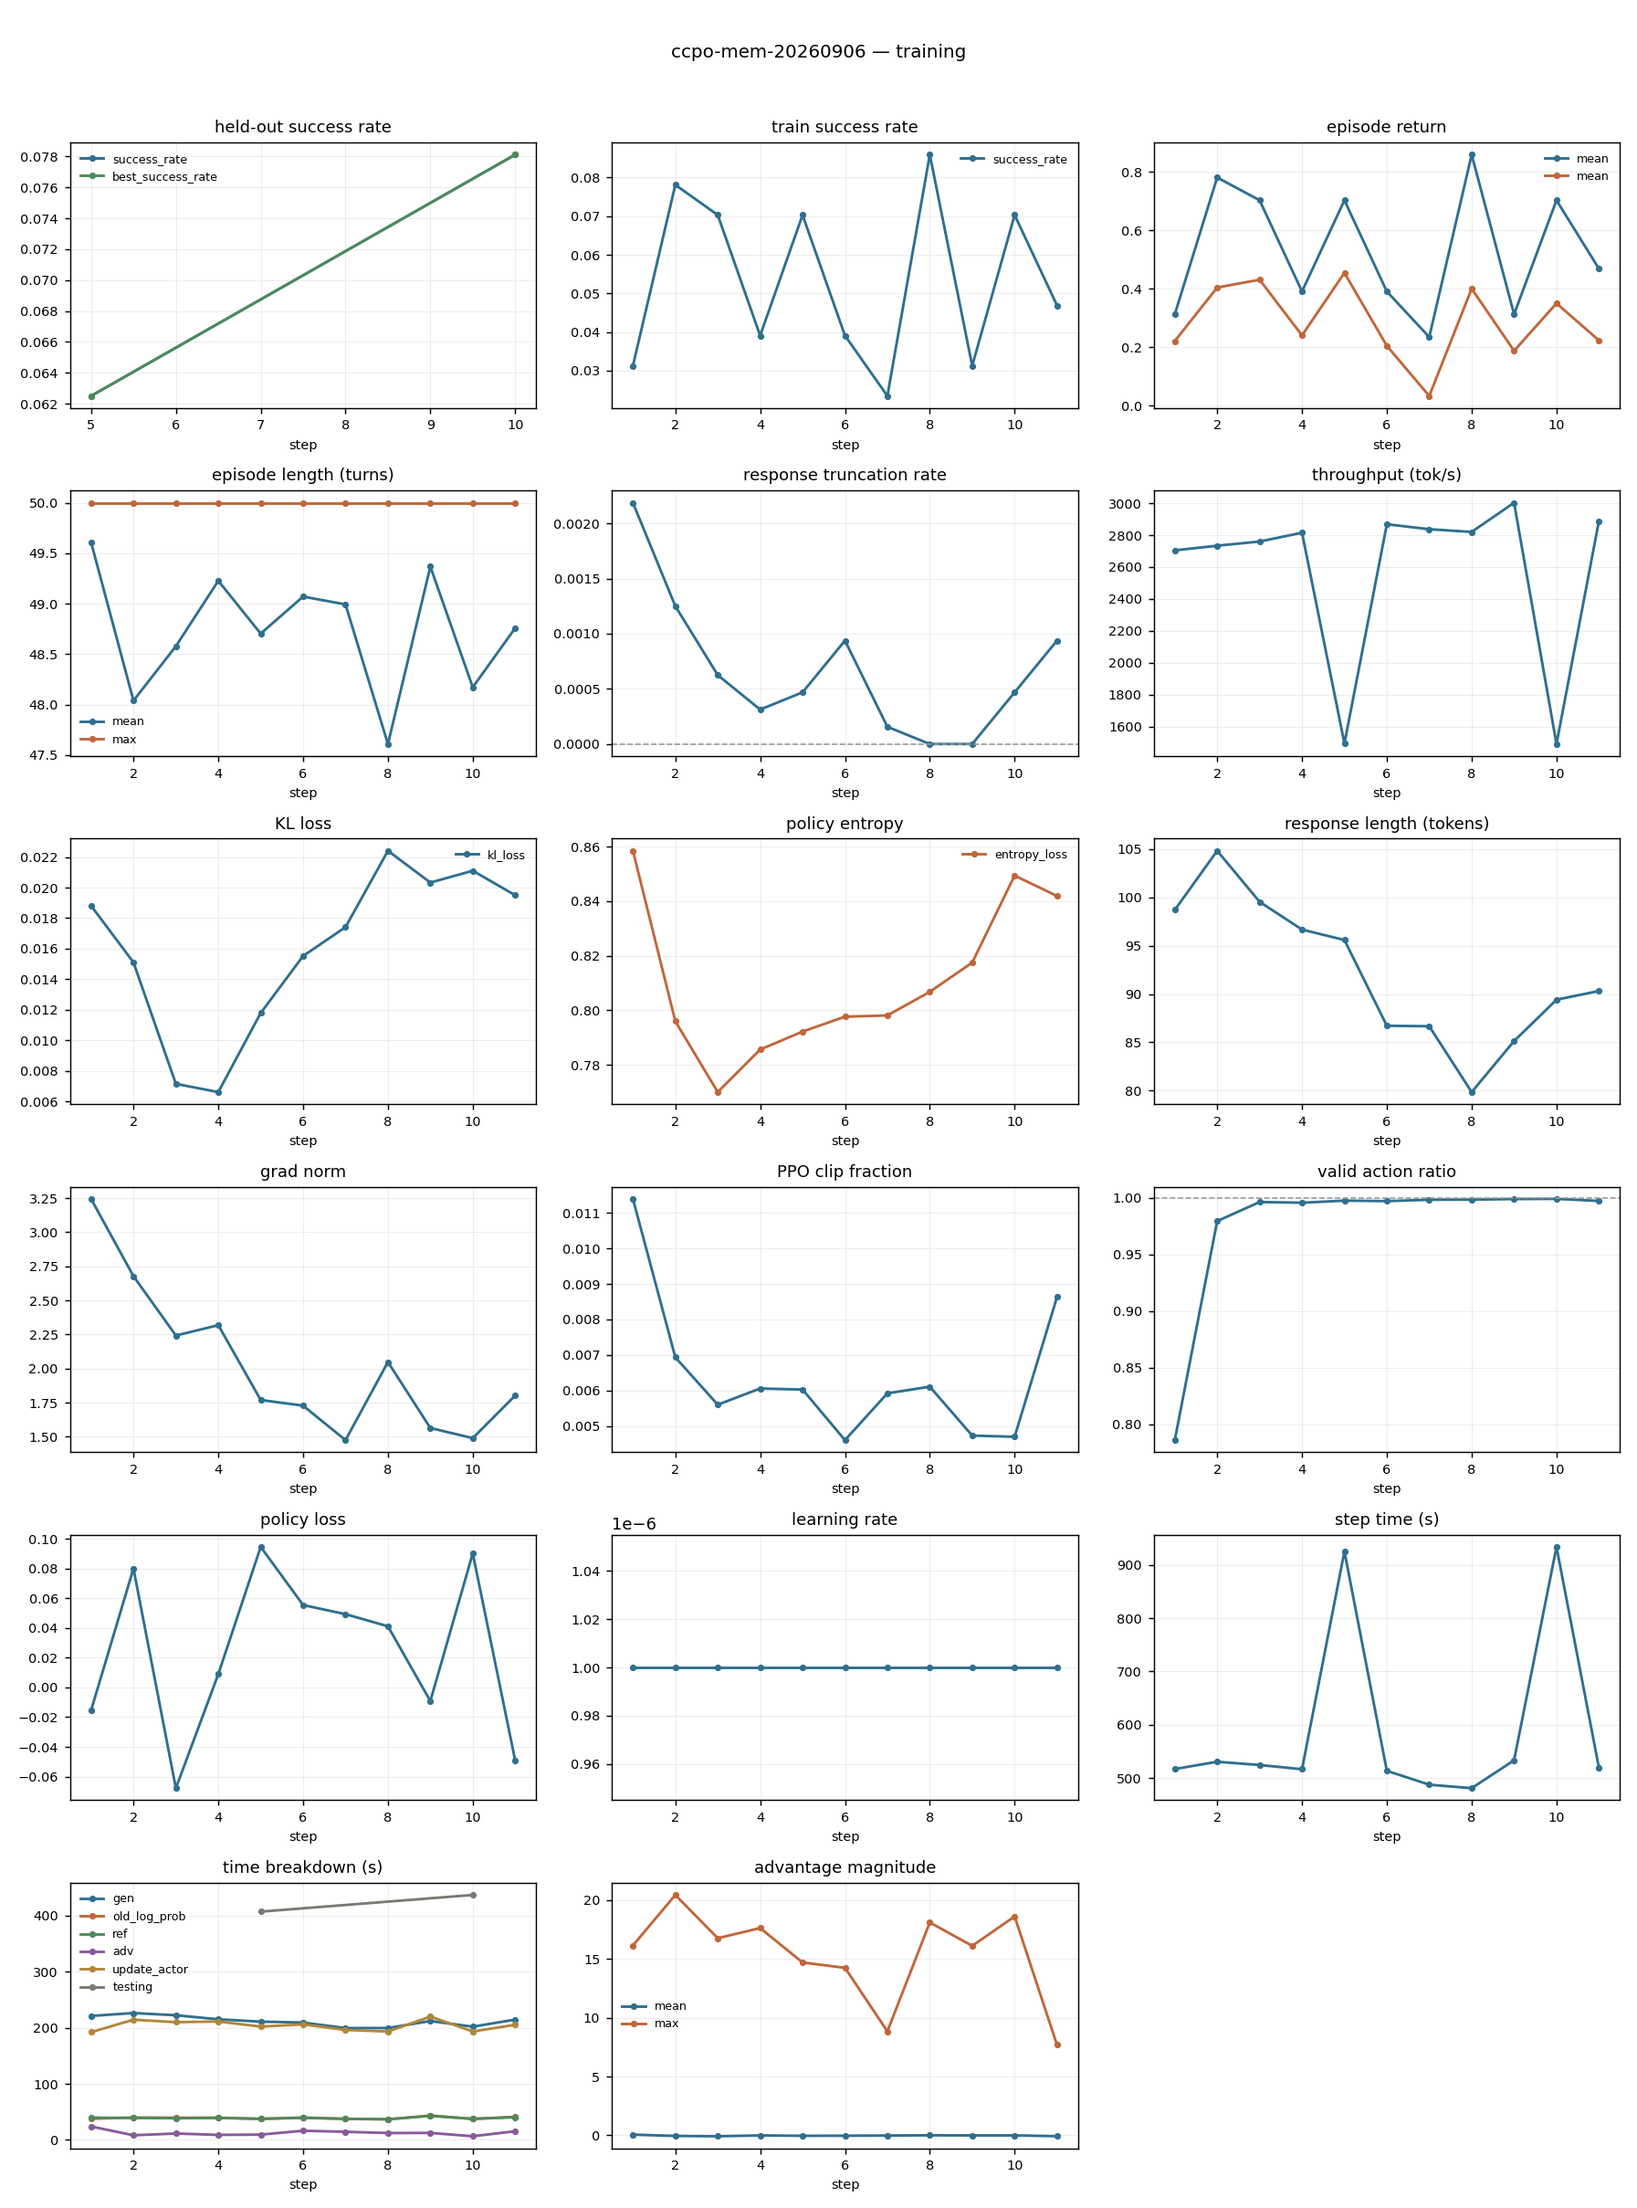
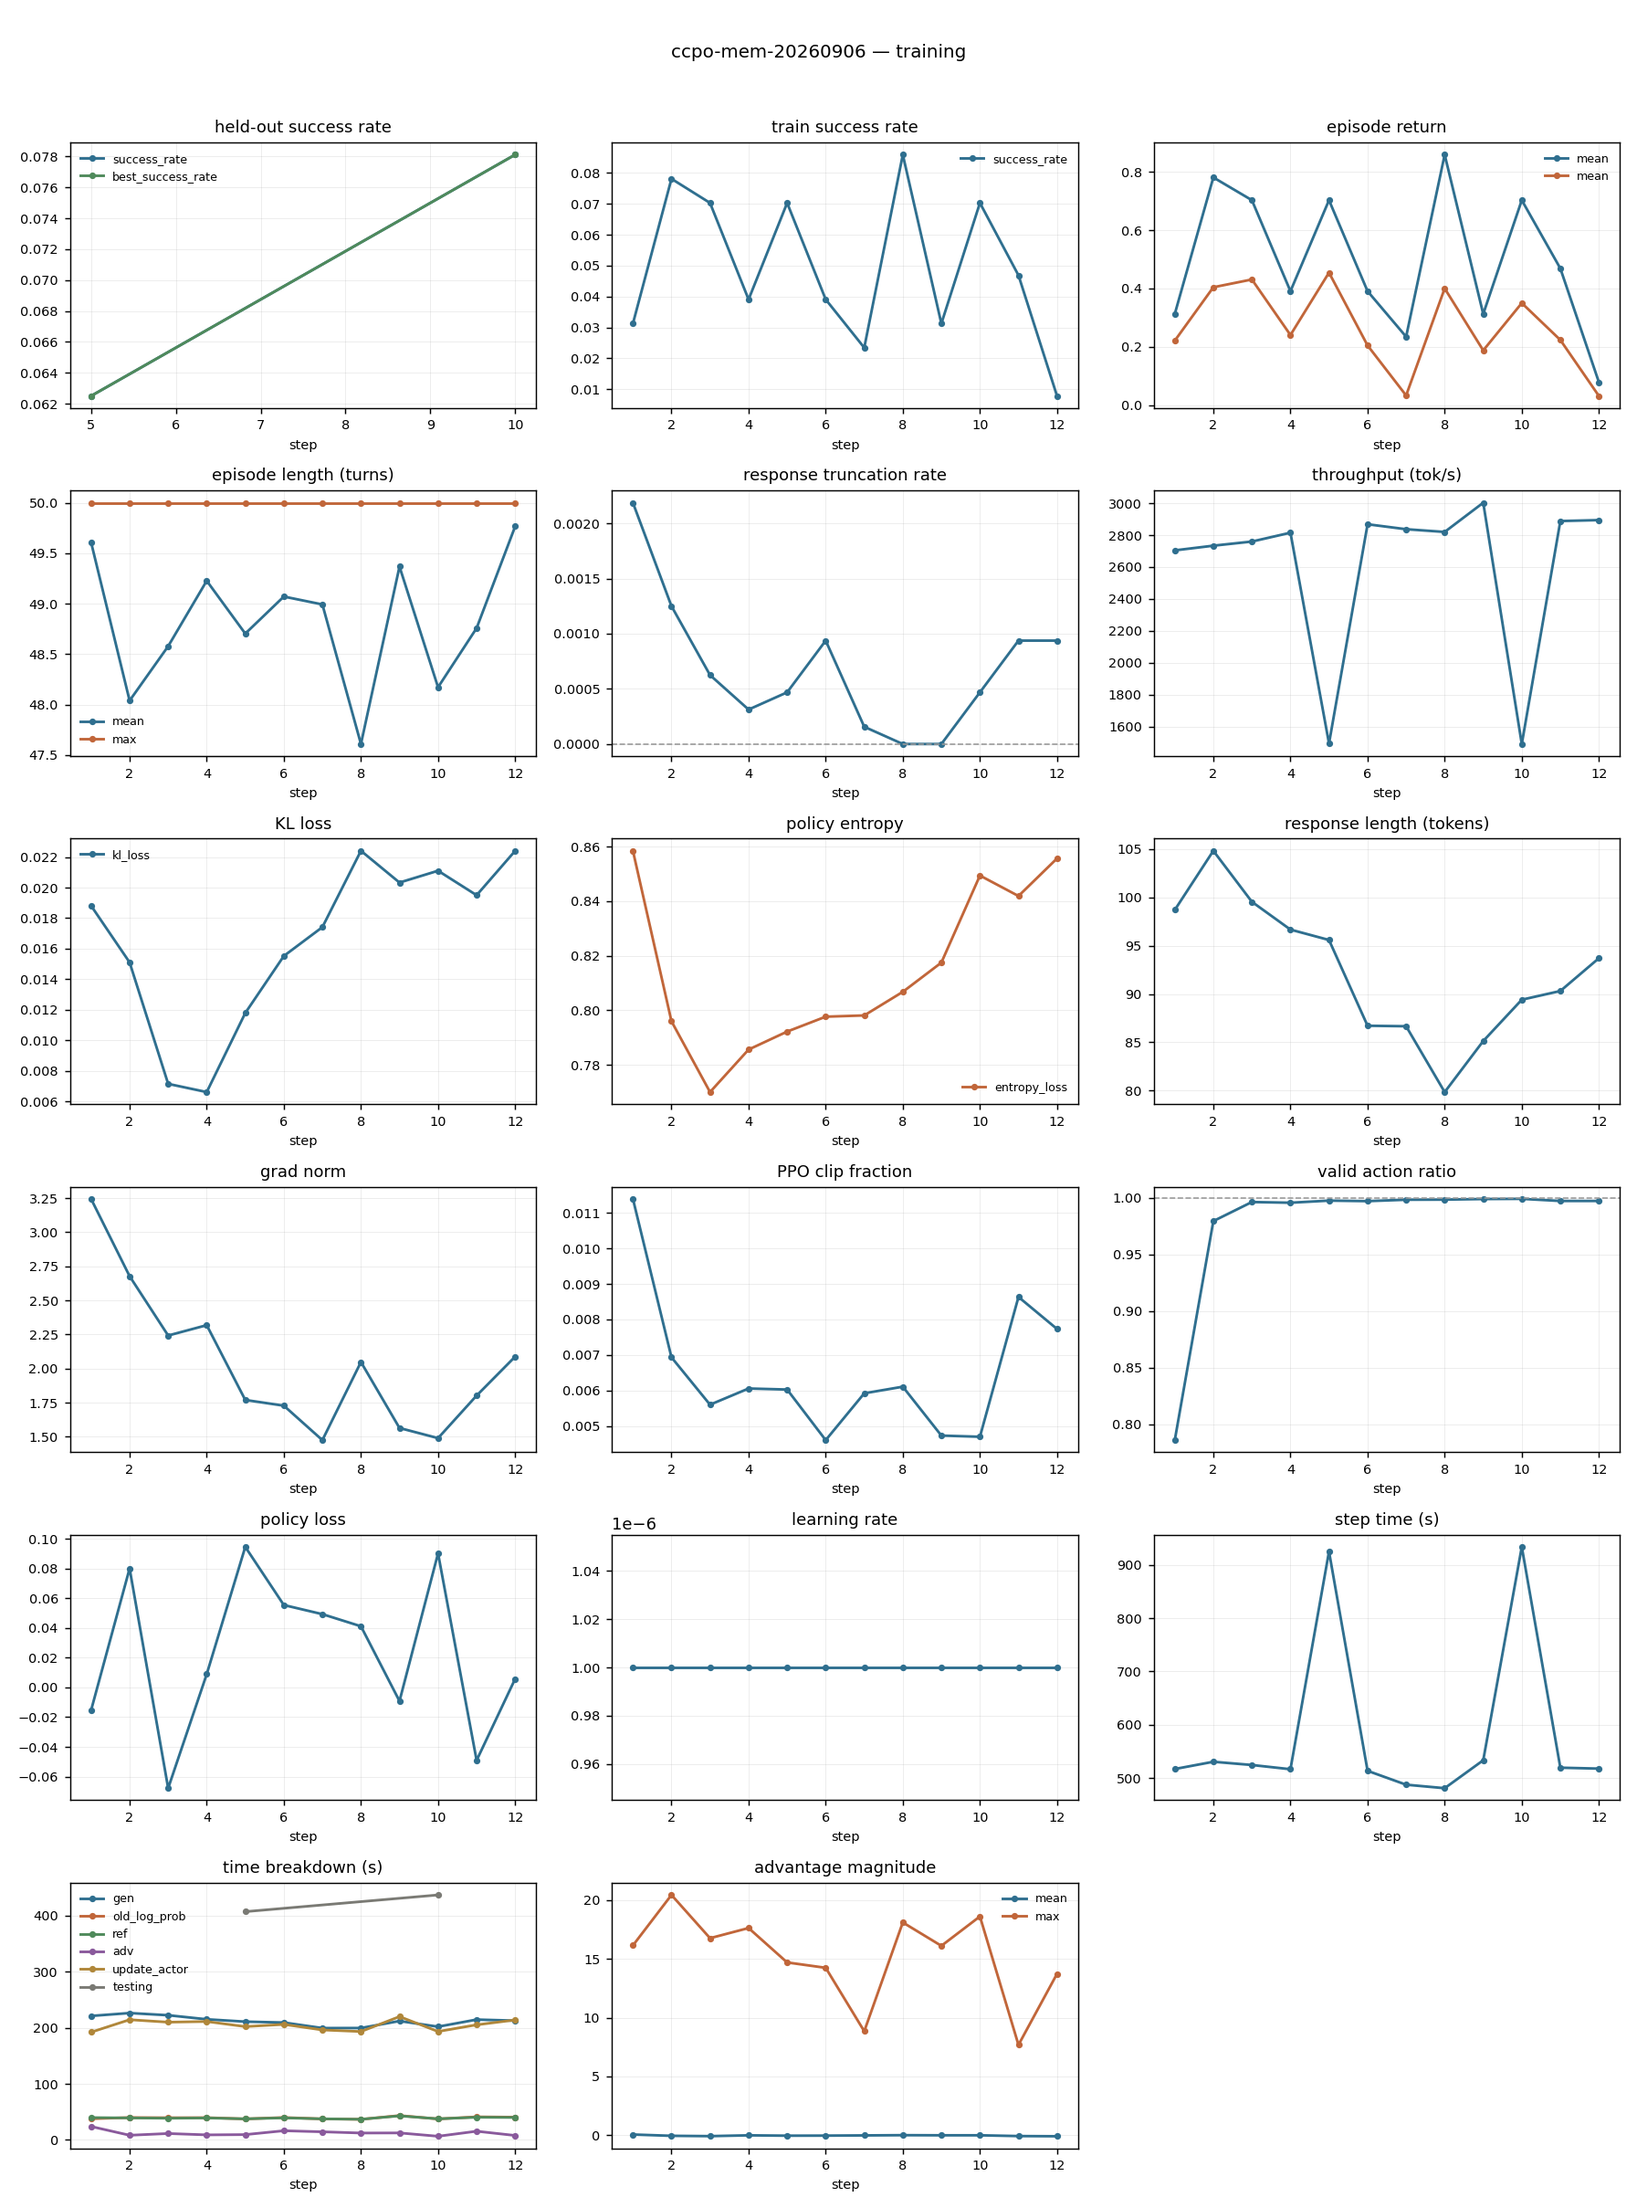
hypothesis.md: H-F sharpened -- the policy has learned exactly one task type
Per-type success shows pick_and_place carrying essentially every success (0.06-0.44)
while the four compositional types sit at ~0 after 12 steps; pick_two_obj_and_place
has never succeeded. Published GiGPO's 90.16 requires all five. So the plateau is
not uniform underperformance but a policy that learned the easy type and nothing
else -- and per-type success, not the aggregate, is the progress signal to watch.

Also records that episode/success_rate on the training draw is mostly
task-composition noise: 16 fresh tasks per step, observed sd 0.024 against a
binomial 0.019, and swings of 0.086 -> 0.008 carry almost no information. Several
earlier readings in this file leaned on it.

Health metrics rule out collapse: KL bounded 0.019-0.022, entropy stable 0.79-0.86,
grad norm 1.5-3.2, clipfrac under 0.011, valid actions 0.996-0.999.

Adds two measurement gotchas, including that the trend p-value went 0.046 -> 0.112
-> 0.312 over three consecutive steps.

Claude-Session: https://claude.ai/code/session_01TnVw4qcXikRNMjxhmmuJXY

diff --git a/experiments/hypothesis.md b/experiments/hypothesis.md
@@ -93,6 +93,39 @@ a harness stuck near the floor may simply not exercise the credit-assignment
 differences these arms exist to test. An estimator cannot show its worth on a
 policy that solves nothing.
 
+**Sharpened at step 12 — the policy has learned exactly one task type.**
+Per-type success on the training draw:
+
+| step | pick_and_place | pick_clean | pick_cool | pick_heat | pick_two_obj |
+|---|---|---|---|---|---|
+| 10 | **0.438** | 0.062 | 0.000 | 0.000 | 0.000 |
+| 11 | **0.250** | 0.062 | 0.000 | 0.000 | 0.000 |
+| 12 | **0.062** | 0.000 | 0.000 | 0.000 | 0.000 |
+
+`pick_and_place` — the simplest type, one object one destination — carries
+essentially every success. The four compositional types are at ~0 after 12 steps,
+and `pick_two_obj_and_place` has **never succeeded once**. Published GiGPO's 90.16
+requires solving all five.
+
+So the plateau is not uniform underperformance. It is a policy that has learned the
+easy type and nothing else. That is consistent with the benign reading — the
+compositional types plausibly need far more than 12 steps — but it also says the
+overall success rate is the wrong thing to watch: **per-type success is the
+progress signal**, and the first compositional type to lift is the event that
+would settle H-F.
+
+**Train success is a poor progress signal at this batch size.** Each step draws 16
+fresh tasks, so the number of `pick_and_place` tasks in the draw dominates. Observed
+sd across 12 steps is 0.024 against a binomial 0.019 at the same mean — the excess
+is task composition. Only the held-out set (fixed 128 episodes) is comparable
+across steps, and step-to-step swings in train success (0.086 -> 0.008) carry
+almost no information. Several earlier readings in this file leaned on that signal
+and should not have.
+
+**Health is fine** — no collapse to blame: KL 0.019 -> 0.022 bounded, entropy
+0.79-0.86 stable, grad norm 1.5-3.2, clip fraction 0.005-0.011,
+`valid_action_ratio` 0.996-0.999.
+
 **Candidate causes, none tested:**
 * genuinely needs 100-150 steps (the benign reading)
 * something in the config still differs from the reference in a way that matters —
@@ -474,6 +507,12 @@ self-corrected to 0.996 within three steps — RL fixed the format unaided.
 * **`perf/max_memory_reserved_gb` is an aggregate across pools.** It read 103.8 GB
   against a 102.6 GB card. Sample `nvidia-smi` during the update instead.
 * **Never quote `n_eff` from a reduced-`group_size` run** — it is capped by `J`.
+* **`episode/success_rate` on the training draw is mostly task-composition noise.**
+  16 fresh tasks per step, and only `pick_and_place` is ever solved, so the metric
+  tracks how many easy tasks were drawn. Use the held-out set, or per-type rates.
+* **A p-value at n~10 is not a finding.** The bucket-fraction trend read p=0.046 at
+  step 10, 0.112 at step 11, 0.312 at step 12. Read the direction across windows,
+  never the threshold crossing.
 * **A degenerate batch fakes agreement.** With every episode reward 0, all node
   values are 0 and `r_vs_gigpo`/`r_vs_g2po` both read ~0.97. Check `reward_sum`
   before reading any correlation.
